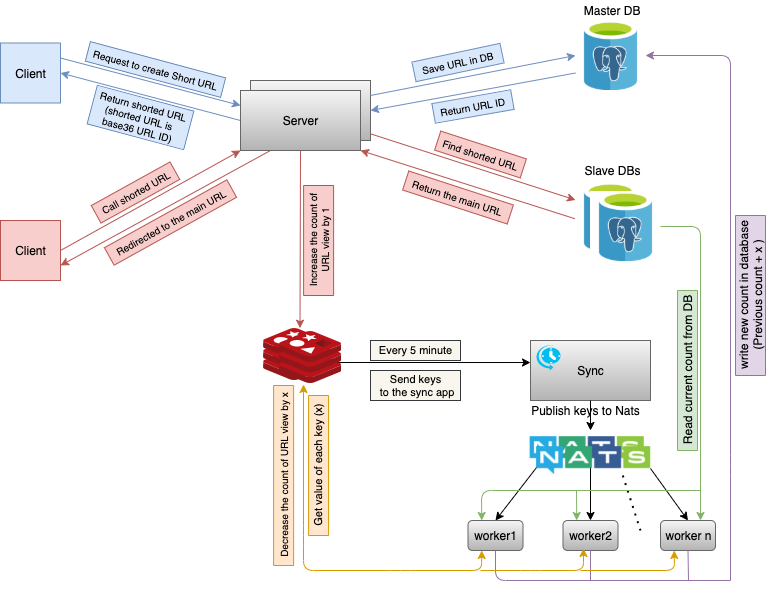
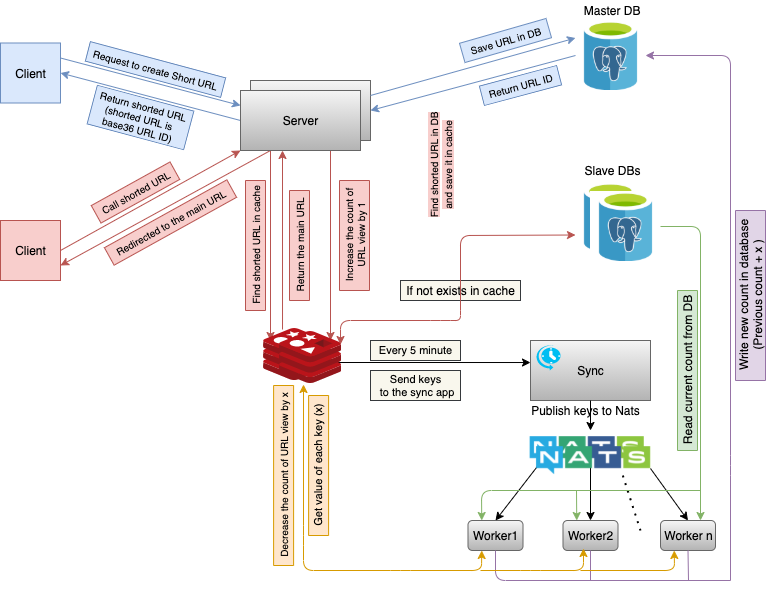
feat: Add Cache Tests + update design

diff --git a/internal/app/urlshortener/model/cache_test.go b/internal/app/urlshortener/model/cache_test.go
@@ -1,0 +1,97 @@
+package model_test
+
+import (
+	"github.com/saraghaedi/urlshortener/internal/app/urlshortener/config"
+	"github.com/saraghaedi/urlshortener/internal/app/urlshortener/model"
+	"github.com/saraghaedi/urlshortener/pkg/database"
+	"github.com/saraghaedi/urlshortener/pkg/redis"
+	"github.com/sirupsen/logrus"
+	"github.com/stretchr/testify/suite"
+	"testing"
+)
+
+type RedisURLRepoSuite struct {
+	suite.Suite
+	RedisRepo model.RedisURLRepo
+}
+
+func (suite *RedisURLRepoSuite) SetupSuite() {
+	cfg := config.Init()
+
+	masterDb, err := database.New(cfg.Database.Driver, cfg.Database.MasterConnStr)
+	if err != nil {
+		logrus.Fatalf("faled to connect to master database: %s", err.Error())
+	}
+
+	slaveDb, err := database.New(cfg.Database.Driver, cfg.Database.SlaveConnStr)
+	if err != nil {
+		logrus.Fatalf("faled to connect to slave database: %s", err.Error())
+	}
+
+	redisCfg := cfg.Redis
+
+	rMaster, _ := redis.Create(redisCfg.MasterAddress, redisCfg.Options, true)
+	rSlave, _ := redis.Create(redisCfg.SlaveAddress, redisCfg.Options, false)
+
+	suite.RedisRepo = model.RedisURLRepo{
+		Base: model.SQLURLRepo{
+			MasterDB: masterDb,
+			SlaveDB:  slaveDb,
+		},
+		RedisMasterClient: rMaster,
+		RedisSlaveClient:  rSlave,
+	}
+}
+
+func (suite *RedisURLRepoSuite) SetupTest() {
+	suite.NoError(suite.RedisRepo.RedisMasterClient.FlushDB().Err())
+}
+
+func (suite *RedisURLRepoSuite) TearDownTest() {
+	suite.NoError(suite.RedisRepo.RedisMasterClient.FlushDB().Err())
+}
+
+func (suite *RedisURLRepoSuite) TestCreateAndFind() {
+	url := model.URL{
+		URL: "https://github.com/saraghaedi",
+	}
+
+	err := suite.RedisRepo.Create(&url)
+	suite.NoError(err)
+
+	id := url.ID
+
+	findByIDUrl, err := suite.RedisRepo.FindByID(uint64(id))
+	suite.NoError(err)
+	suite.NotNil(findByIDUrl)
+	suite.Equal(url.URL, findByIDUrl.URL)
+
+	findByIDUrl, err = suite.RedisRepo.FindByID(uint64(id))
+	suite.NoError(err)
+	suite.NotNil(findByIDUrl)
+	suite.Equal(url.URL, findByIDUrl.URL)
+
+}
+
+func (suite *RedisURLRepoSuite) TestUpdateCounter() {
+	url := model.URL{
+		URL: "https://github.com/saraghaedi",
+	}
+
+	err := suite.RedisRepo.Create(&url)
+	suite.NoError(err)
+
+	id := url.ID
+
+	err = suite.RedisRepo.Update(uint64(id), 10)
+	suite.NoError(err)
+
+	updatedURL, err := suite.RedisRepo.FindByID(uint64(id))
+	suite.NoError(err)
+
+	suite.EqualValues(10, updatedURL.Count)
+}
+
+func TestRedisURLRepoSuite(t *testing.T) {
+	suite.Run(t, new(RedisURLRepoSuite))
+}
